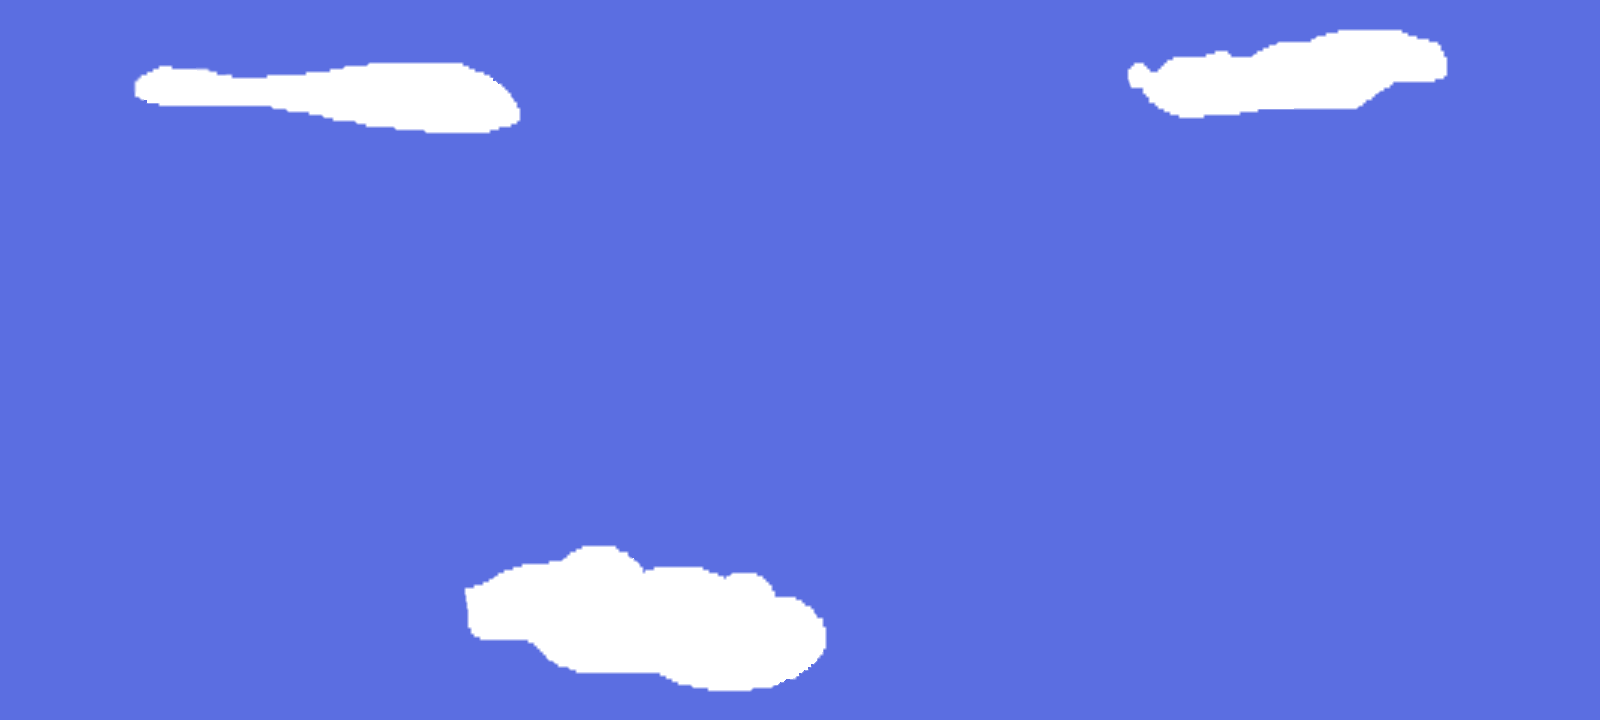
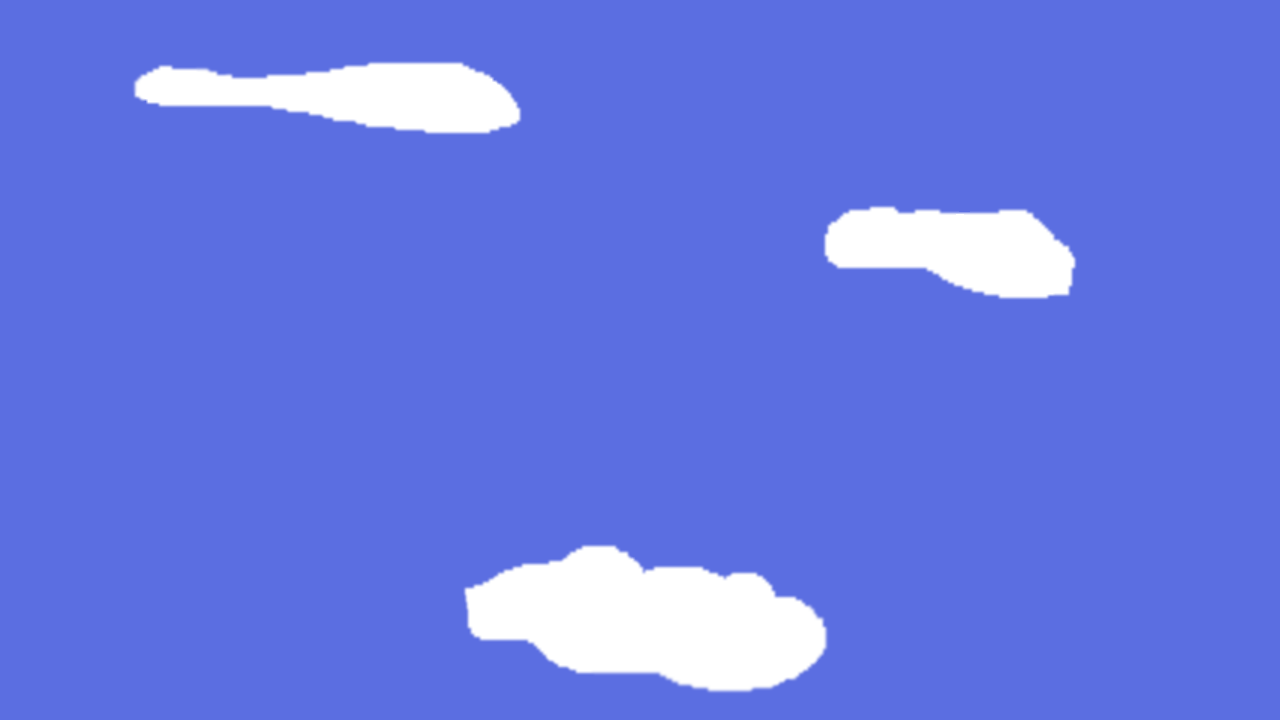
scroll

diff --git a/learnsdl/stage.c b/learnsdl/stage.c
@@ -30,6 +30,7 @@ struct Stage {
   Entity *enemy_bullet_tail;
   int enemy_spawn_timer;
   int reset_timer;
+  size_t frame_counter;
 };
 
 static void free_entity_list(Entity **head) {
@@ -67,6 +68,7 @@ static void stage_reset(Stage *stage) {
   clear_entities(stage);
   stage->enemy_spawn_timer = 0;
   stage->reset_timer = FPS * 2;
+  stage->frame_counter = 0;
   stage->player = create_player(stage->textures[TEXTURE_PLAYER]);
 }
 
@@ -291,8 +293,13 @@ static void do_reset(Stage *stage) {
   }
 }
 
+static void do_frame_counter(Stage *stage) {
+  stage->frame_counter++;
+}
+
 static void logic(Stage *stage) {
   do_reset(stage);
+  do_frame_counter(stage);
   do_collisions(stage);
   do_player(stage);
   do_enemies(stage);
@@ -314,13 +321,39 @@ static void blit_list(SDL_Renderer *renderer, Entity *head) {
 }
 
 static void draw_background(Stage *stage) {
-	SDL_Texture *texture = stage->textures[TEXTURE_BACKGROUND];
-  SDL_Rect dest = (SDL_Rect){
+  SDL_Texture *texture = stage->textures[TEXTURE_BACKGROUND];
+  int texture_w = 0;
+  int texture_h = 0;
+  int offset_x = ((stage->frame_counter * BACKGROUND_SPEED) / FPS) % SCREEN_WIDTH;
+  SDL_QueryTexture(texture, 0, 0, &texture_w, &texture_h);
+
+  SDL_Rect src1 = (SDL_Rect){
+      .x = offset_x,
+      .y = 0,
+      .w = texture_w - offset_x,
+      .h = texture_h,
+  };
+  SDL_Rect dest1 = (SDL_Rect){
       .x = 0,
       .y = 0,
+      .w = texture_w - offset_x,
+      .h = SCREEN_HEIGHT,
   };
-  SDL_QueryTexture(texture, 0, 0, &dest.w, &dest.h);
-	SDL_RenderCopy(stage->renderer, texture, 0, &dest);
+  SDL_Rect src2 = (SDL_Rect){
+      .x = 0,
+      .y = 0,
+      .w = offset_x,
+      .h = texture_h,
+  };
+  SDL_Rect dest2 = (SDL_Rect){
+      .x = SCREEN_WIDTH - offset_x,
+      .y = 0,
+      .w = offset_x,
+      .h = SCREEN_HEIGHT,
+  };
+
+  SDL_RenderCopy(stage->renderer, texture, &src1, &dest1);
+  SDL_RenderCopy(stage->renderer, texture, &src2, &dest2);
 }
 
 static void draw(Stage *stage) {

diff --git a/learnsdl/defs.h b/learnsdl/defs.h
@@ -19,17 +19,19 @@
 
 #define ENEMY_DY_MAX 2
 #define ENEMY_DY_FACTOR 50.0
-#define ENEMY_BASE_SPAWN_RATE 18
-#define ENEMY_RAND_SPAWN_RATE 26
-#define ENEMY_DX_MIN 2
-#define ENEMY_DX_MAX 6
+#define ENEMY_BASE_SPAWN_RATE 14
+#define ENEMY_RAND_SPAWN_RATE 20
+#define ENEMY_DX_MIN 5
+#define ENEMY_DX_MAX 12
 #define ENEMY_STARTING_HEALTH 2
-#define ENEMY_BULLET_SPEED 10
+#define ENEMY_BULLET_SPEED 12
 
 #define SIDE_PLAYER 0
 #define SIDE_ENEMY 1
 
 #define MAX_STARS 500
+#define BACKGROUND_SPEED 200
+
 
 #endif
 
